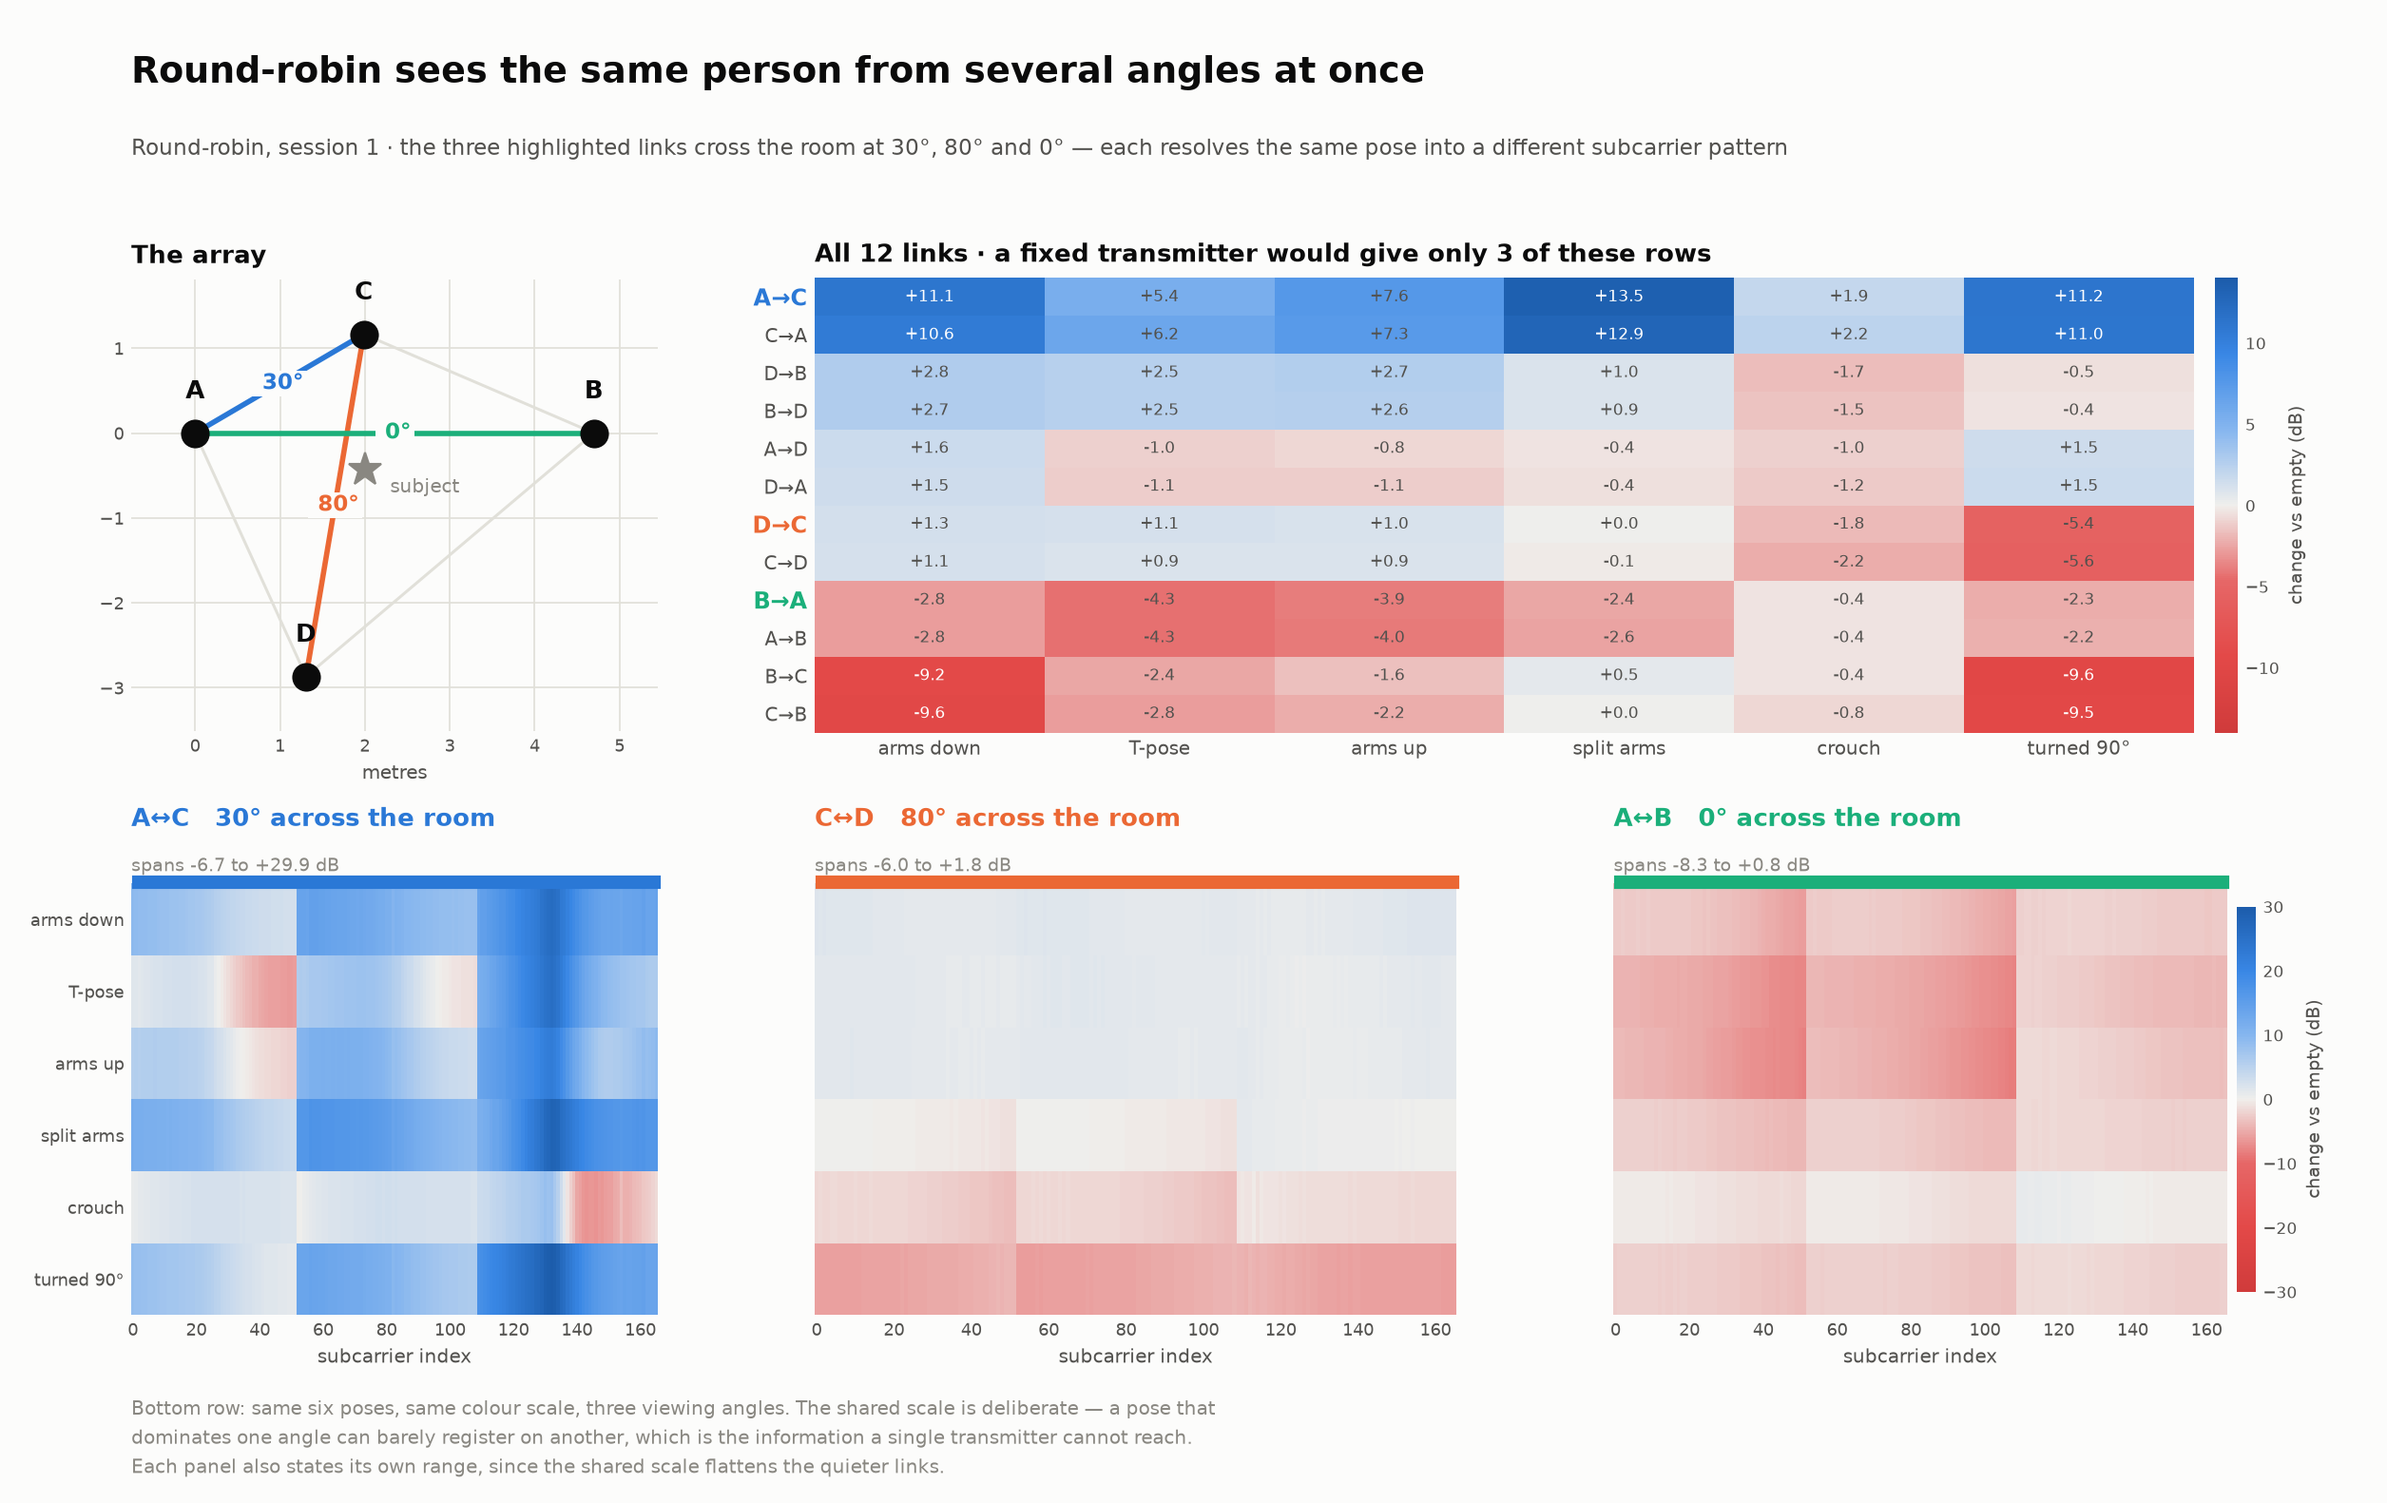
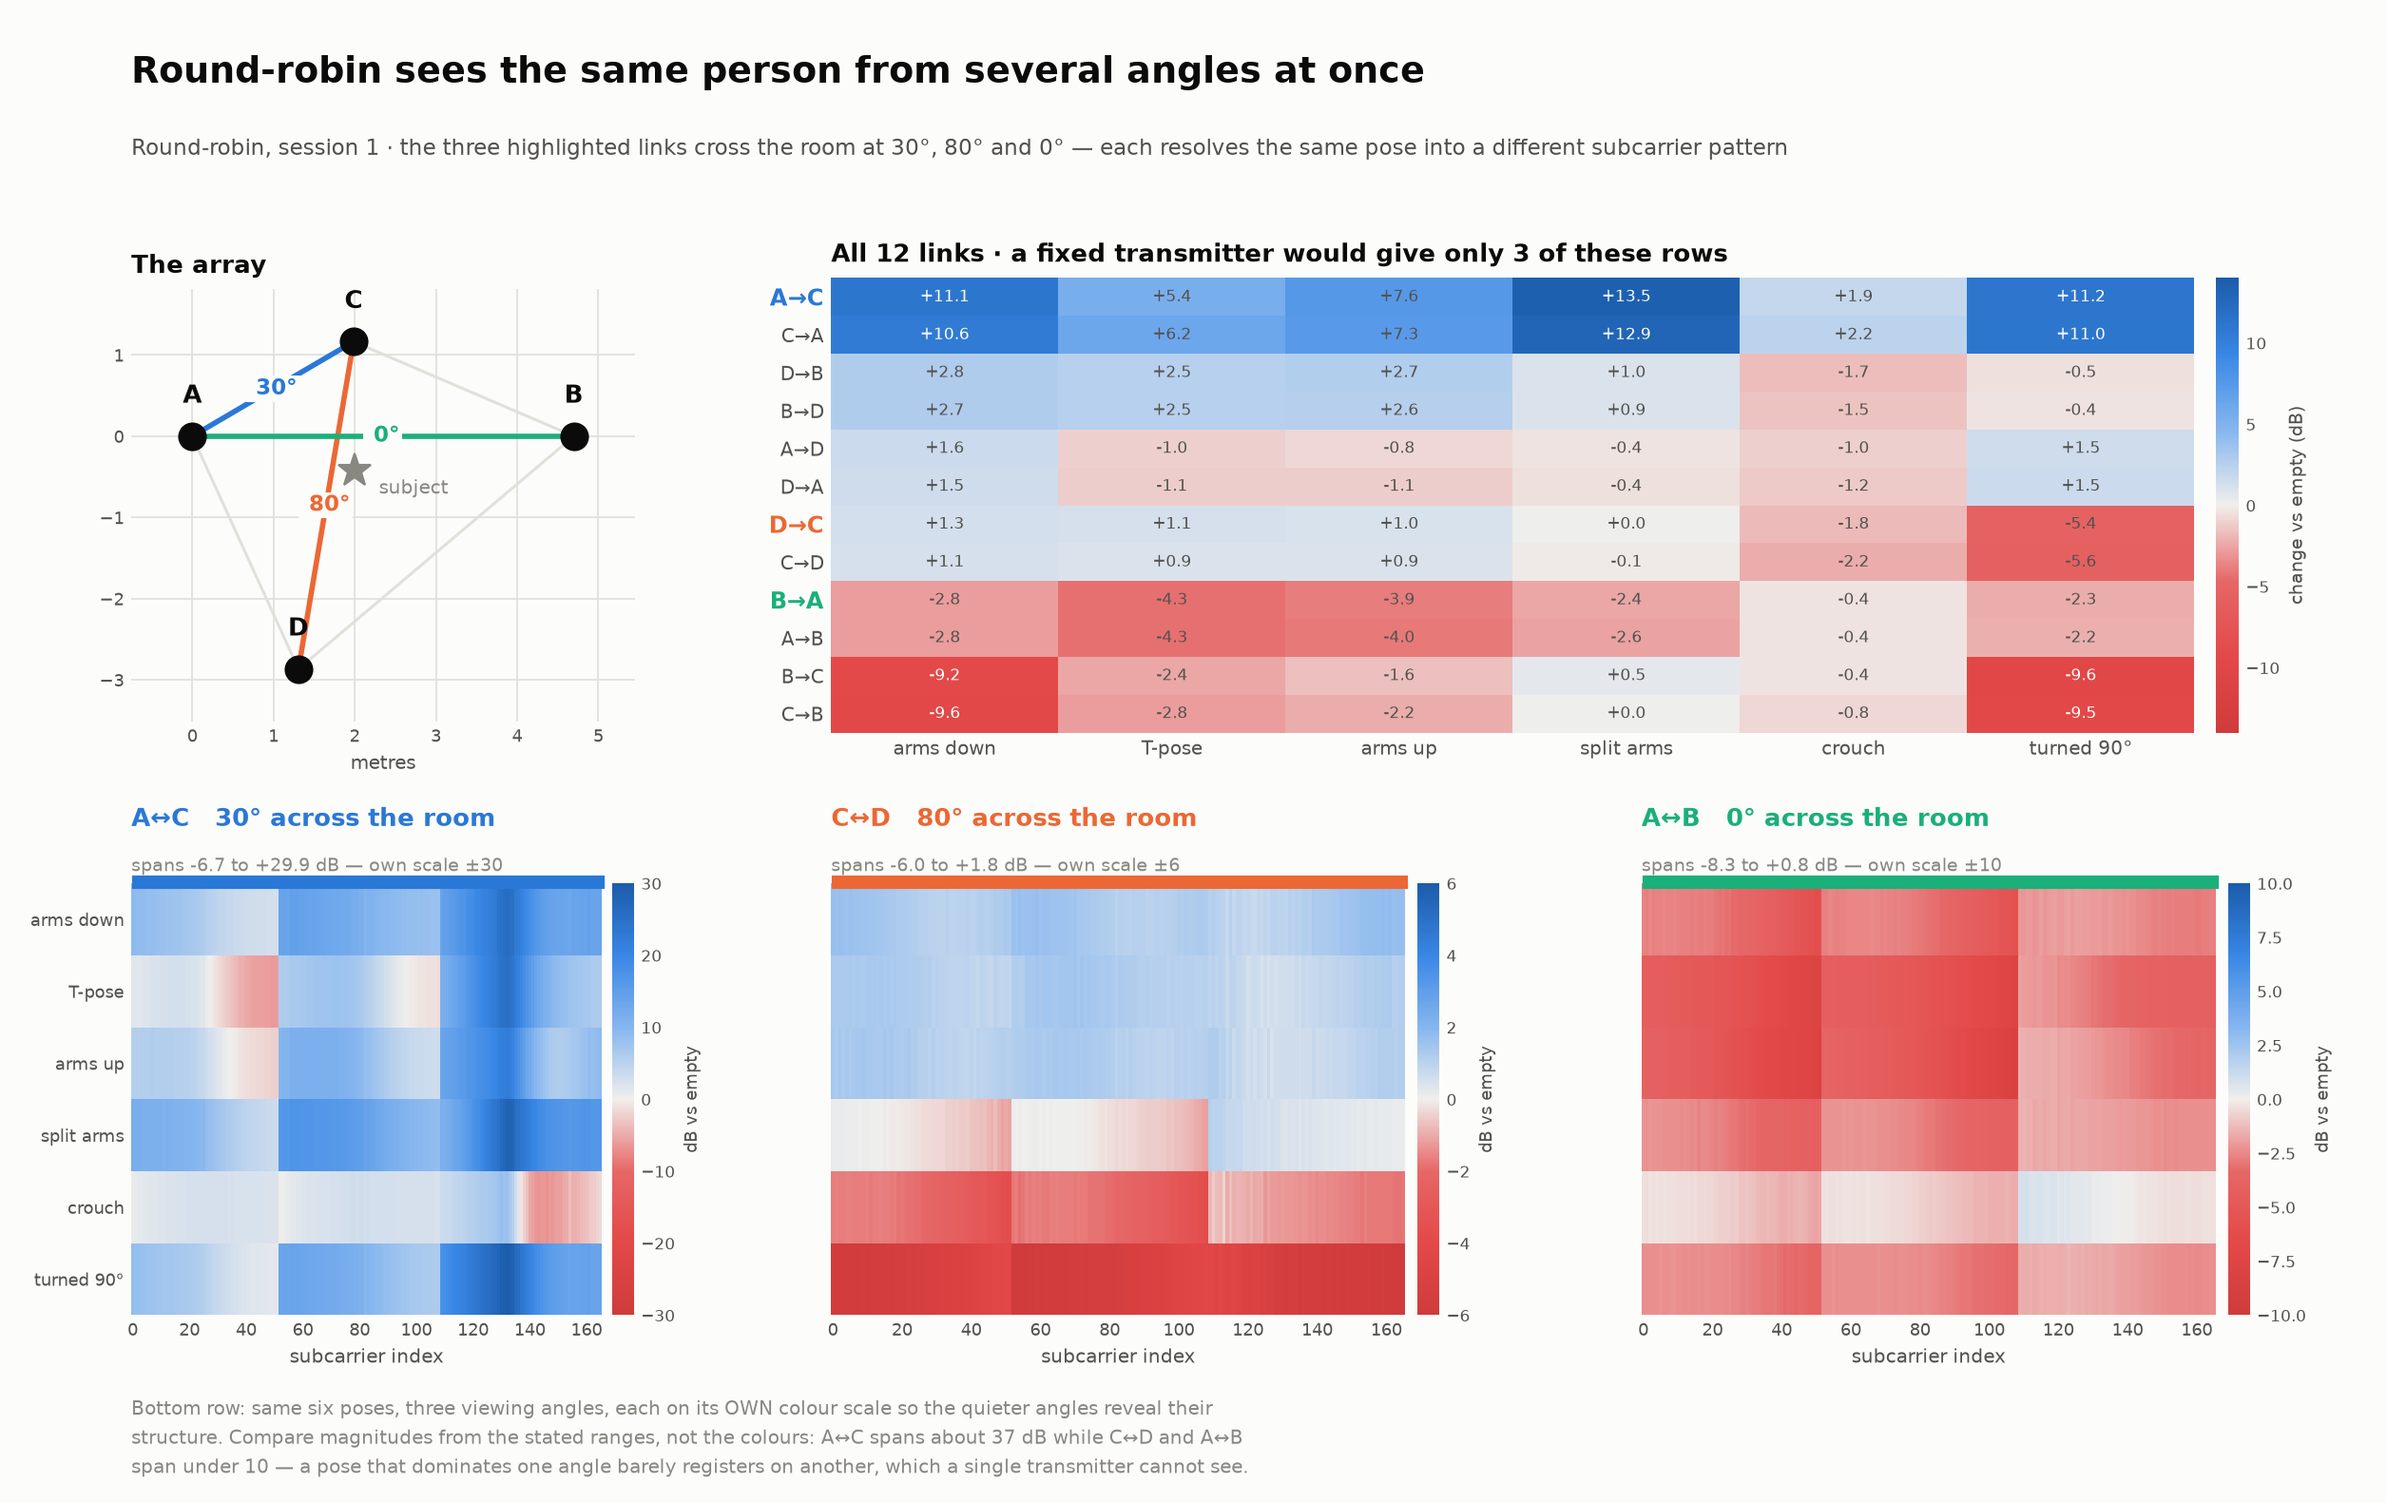
Multiview: give each viewing-angle panel its own colourbar and scale
The shared colour scale was chosen to make the magnitude difference between
angles obvious, but it did so by rendering the quieter links almost blank: C-D
spans under 8 dB against A-C's 37, so at a shared +/-30 it showed as flat grey
and its structure was invisible.

Each bottom panel now carries its own symmetric scale and colourbar, which
reveals that structure -- C-D clearly separates the arms-out poses (slight
gain) from crouch and turned (loss), which the shared scale had hidden
entirely. The magnitude comparison is not lost: every panel states its true
range in dB above the plot, and the footer directs the reader to compare those
numbers rather than the colours.

diff --git a/esp-csi/examples/get-started/tools/plot_multiview.py b/esp-csi/examples/get-started/tools/plot_multiview.py
@@ -97,7 +97,7 @@ def main():
 
     fig = plt.figure(figsize=(16.2, 10.2), facecolor=SURFACE)
     gs = fig.add_gridspec(2, 3, height_ratios=[1, 0.95], width_ratios=[0.82, 1, 1],
-                          hspace=0.34, wspace=0.26,
+                          hspace=0.34, wspace=0.34,
                           left=0.055, right=0.945, top=0.815, bottom=0.125)
 
     # ---------- geometry ----------
@@ -169,32 +169,31 @@ def main():
         S = np.array([20 * np.log10(np.maximum(P[p][f'{lk}|a'].astype(float).mean(axis=0), 1e-9)
                                     / np.maximum(base_sc, 1e-9)) for p in POSES])[:, valid]
         panels.append((S, lab, ang))
-    limS = max(float(np.ceil(max(np.nanmax(np.abs(S)) for S, _, _ in panels) / 2) * 2), 1.0)
-
     for k, ((S, lab, ang), col) in enumerate(zip(panels, CAT)):
         axs = fig.add_subplot(gs[1, k], facecolor=SURFACE)
-        im2 = axs.imshow(S, cmap=DIVERGING, vmin=-limS, vmax=limS,
+        # Per-panel scale, so the quieter angles show their structure instead of
+        # reading as blank. The magnitude comparison is not lost: each panel
+        # states its true range, and the colourbars make the difference explicit.
+        limK = max(float(np.ceil(np.nanmax(np.abs(S)) / 2) * 2), 1.0)
+        im2 = axs.imshow(S, cmap=DIVERGING, vmin=-limK, vmax=limK,
                          aspect='auto', interpolation='nearest')
         axs.set_yticks(range(len(POSES)), SHORT if k == 0 else [''] * len(POSES),
                        color=INK_2, fontsize=9.5)
         axs.set_xlabel('subcarrier index', color=INK_2, fontsize=9.5)
         axs.set_title(f'{lab}   {ang:.0f}° across the room', color=col,
                       fontsize=12, pad=28, loc='left', fontweight='bold')
-        axs.text(0.0, 1.018, f'spans {np.nanmin(S):+.1f} to {np.nanmax(S):+.1f} dB',
+        axs.text(0.0, 1.018, f'spans {np.nanmin(S):+.1f} to {np.nanmax(S):+.1f} dB '
+                             f'— own scale ±{limK:.0f}',
                  transform=axs.transAxes, fontsize=9, color=MUTED, va='bottom')
         axs.tick_params(colors=INK_2, length=0, labelsize=8.5)
-        for s in axs.spines.values():
-            s.set_visible(False)
-        for sp in ('bottom', 'left', 'top', 'right'):
-            axs.spines[sp].set_visible(False)
-        # a coloured rule ties the panel back to its link in the geometry
+        for sp in axs.spines.values():
+            sp.set_visible(False)
         axs.add_patch(plt.Rectangle((0, -0.6), S.shape[1], 0.16, color=col,
                                     clip_on=False, zorder=6))
-        if k == len(panels) - 1:
-            cb2 = fig.colorbar(im2, ax=axs, fraction=0.03, pad=0.015)
-            cb2.set_label('change vs empty (dB)', color=INK_2, fontsize=9)
-            cb2.ax.tick_params(colors=INK_2, length=0, labelsize=8)
-            cb2.outline.set_visible(False)
+        cbk = fig.colorbar(im2, ax=axs, fraction=0.045, pad=0.02)
+        cbk.set_label('dB vs empty', color=INK_2, fontsize=8.5)
+        cbk.ax.tick_params(colors=INK_2, length=0, labelsize=8)
+        cbk.outline.set_visible(False)
 
     fig.text(0.055, 0.945,
              'Round-robin sees the same person from several angles at once',
@@ -205,9 +204,9 @@ def main():
              'each resolves the same pose into a different subcarrier pattern',
              fontsize=10.5, color=INK_2)
     fig.text(0.055, 0.020,
-             'Bottom row: same six poses, same colour scale, three viewing angles. The shared scale is deliberate — a pose that\n'
-             'dominates one angle can barely register on another, which is the information a single transmitter cannot reach.\n'
-             'Each panel also states its own range, since the shared scale flattens the quieter links.',
+             'Bottom row: same six poses, three viewing angles, each on its OWN colour scale so the quieter angles reveal their\n'
+             'structure. Compare magnitudes from the stated ranges, not the colours: A↔C spans about 37 dB while C↔D and A↔B\n'
+             'span under 10 — a pose that dominates one angle barely registers on another, which a single transmitter cannot see.',
              fontsize=9.5, color=MUTED, linespacing=1.5)
 
     fig.savefig(args.out, dpi=155, facecolor=SURFACE)
